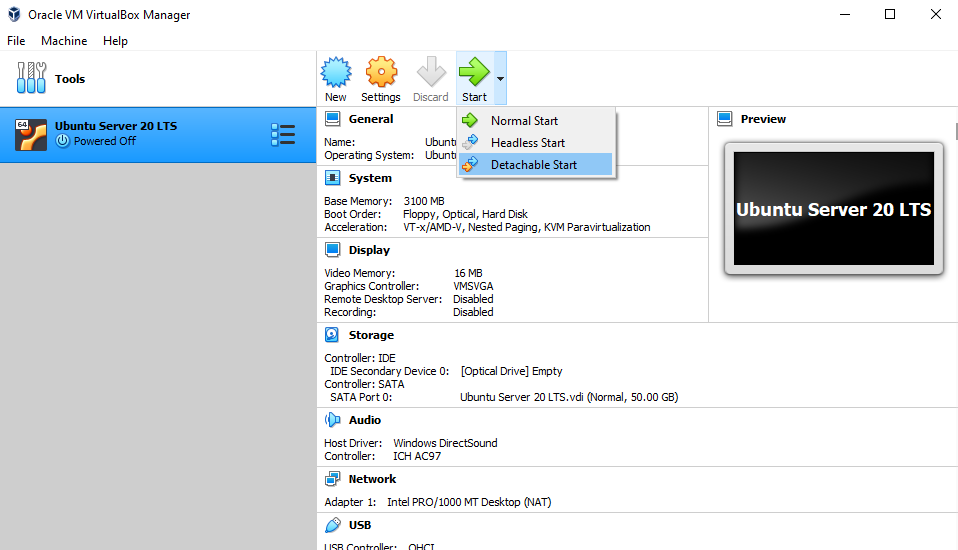
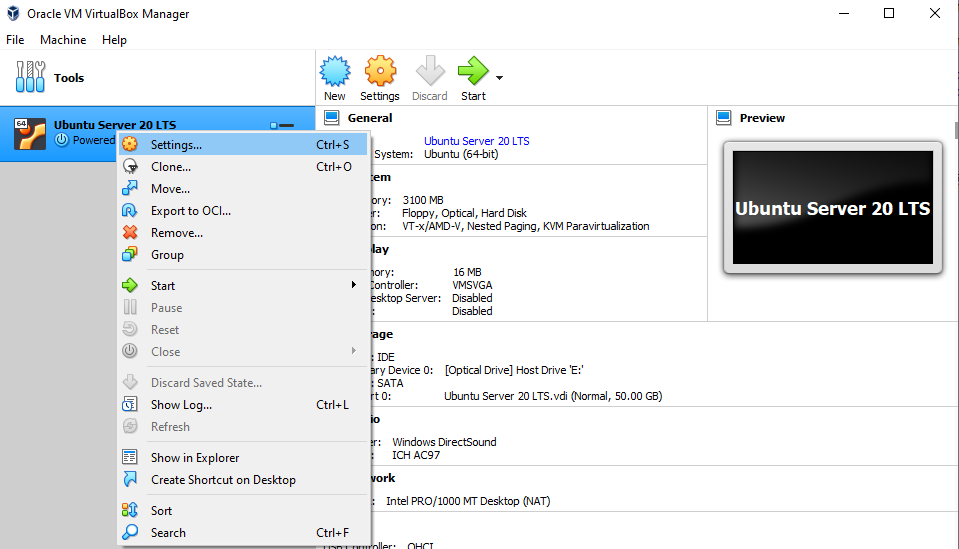
installing ubuntu os

Changed region(s): [[0.0, 0.0, 1.0, 1.0], [0.4541, 0.7122, 0.7265, 0.7432]]

diff --git a/installation/ubuntu-vBox/Ubuntu-vBox.md b/installation/ubuntu-vBox/Ubuntu-vBox.md
@@ -9,8 +9,6 @@ Then download Ubuntu or Linux. Both Virtual Box and Ubuntu, should be free, so t
 Now it's time to install and configure Virtual Box.
 The process it's quite simple, but for the sake of it, I will put all the necessary details.
 
-## Install
-
 **Step 1**<br>
 Run the installation of the virtual box. Click next.<br>
 ![vBox_1](https://github.com/Cristishor201/ESP8266/tree/main/installation/ubuntu-vBox/vBox_1.png)
@@ -35,7 +33,7 @@ and then press *install*.<br>
 After the installation occured, press *Finish*, with the Start option checked, as we continue the setup, in the next chapter.<br>
 ![vBox_6](https://github.com/Cristishor201/ESP8266/tree/main/installation/ubuntu-vBox/vBox_6.png)
 
-# Installation
+# Setup virtual image
 
 Now it's time to create a virtual machine with ubuntu os machine we downloaded early.
 
@@ -70,7 +68,75 @@ I will choose 50 GB, as is more than enough for this tutorial or any tools and i
 ![vBox_13](https://github.com/Cristishor201/ESP8266/tree/main/installation/ubuntu-vBox/vBox_13.png)
 
 **Step 8**<br>
+Now, go to setings for the image we just created..<br>
+![vBox_14]((https://github.com/Cristishor201/ESP8266/tree/main/installation/ubuntu-vBox/vBox_14.png)
+
+**Step 9**<br>
+Under the Storage section, in the Controller: IDE section, with the Host drive E selected..<br>
+![vBox_15](https://github.com/Cristishor201/ESP8266/tree/main/installation/ubuntu-vBox/vBox_15.png)
+
+**Step 10**<br>
+Choose to change the disc with the ubuntu image we just downloaded before. This will mount the image, so that installation can begin.<br>
+![vBox_16](https://github.com/Cristishor201/ESP8266/tree/main/installation/ubuntu-vBox/vBox_16.png)
+
+**Step 11**<br>
+Then we can start the *Ubuntu Server 20 LTS*, in *Detachable Start* state.<br>
+![vBox_17](https://github.com/Cristishor201/ESP8266/tree/main/installation/ubuntu-vBox/vBox_17.png)
+
+# Installation
+
+**Step 12**<br>
+The actual installation begins. We are prompted to select our language. I will choose English for myself.<br>
+![vBox_18](https://github.com/Cristishor201/ESP8266/tree/main/installation/ubuntu-vBox/vBox_18.png)
+
+**Step 13**<br>
+On next screen we can choose the layout of the keyboard. I will live it as it is.
+![vBox_19](https://github.com/Cristishor201/ESP8266/tree/main/installation/ubuntu-vBox/vBox_19.png)
+
+**Step 14**<br>
+We don't need network connection between this computer and other computer, so we will skeep this step.<br>
+![vBox_20](https://github.com/Cristishor201/ESP8266/tree/main/installation/ubuntu-vBox/vBox_20.png)
+
+**Step 15**<br>
+We will skip also the settings for proxy server.<br>
+![vBox_21](https://github.com/Cristishor201/ESP8266/tree/main/installation/ubuntu-vBox/vBox_21.png)
+
+**Step 16**<br>
+Hit next when it asking for ubuntu archive mirror.<br>
+![vBox_22](https://github.com/Cristishor201/ESP8266/tree/main/installation/ubuntu-vBox/vBox_22.png)
+
+**Step 17**<br>
+On the next screen we are asked if we want to use ubuntu on one disc or more. I will live it as default.<br>
+![vBox_23](https://github.com/Cristishor201/ESP8266/tree/main/installation/ubuntu-vBox/vBox_23.png)
+
+**Step 18**<br>
+This is just a Summary of the installation. Hit *Done* for next, and on the prompt with confirmation of destructive action, choose *Continue*.<br>
+![vBox_24](https://github.com/Cristishor201/ESP8266/tree/main/installation/ubuntu-vBox/vBox_24.png)
+
+**Step 19**<br>
+Choose a name for the *user name* of this OS, a *name for this "computer"*, a *username* and a *password*. It's a good habbit to fill up al the inputs here.<br>
+![vBox_25](https://github.com/Cristishor201/ESP8266/tree/main/installation/ubuntu-vBox/vBox_25.png)
+
+**Step 20**<br>
+Check in option for *install OpenSSH server*, and hit *Done*.<br>
+![vBox_26](https://github.com/Cristishor201/ESP8266/tree/main/installation/ubuntu-vBox/vBox_26.png)
+
+**Step 21**<br>
+Here you can install extra options feature. We can install them later, so we will skip this as well.<br>
+![vBox_27](https://github.com/Cristishor201/ESP8266/tree/main/installation/ubuntu-vBox/vBox_27.png)
+
+**Step 22**<br>
+After installing everything, press *Reboot Now*.<br> 
+![vBox_28](https://github.com/Cristishor201/ESP8266/tree/main/installation/ubuntu-vBox/vBox_28.png)
+
+You may get error for removing optical drive. Hit enter anyway, for continue.
+
+**Step 23**<br>
+Then login with your credentials.
+![vBox_29](https://github.com/Cristishor201/ESP8266/tree/main/installation/ubuntu-vBox/vBox_29.png)
 
 
-<s>(installation (download, prerequites, install | Configuring, issues case)
+
+
+<s>(installation (download, prerequites, install | Configuring, issues case, Install & configure toolchain + cod)
 steps per sub-chapter</s>
